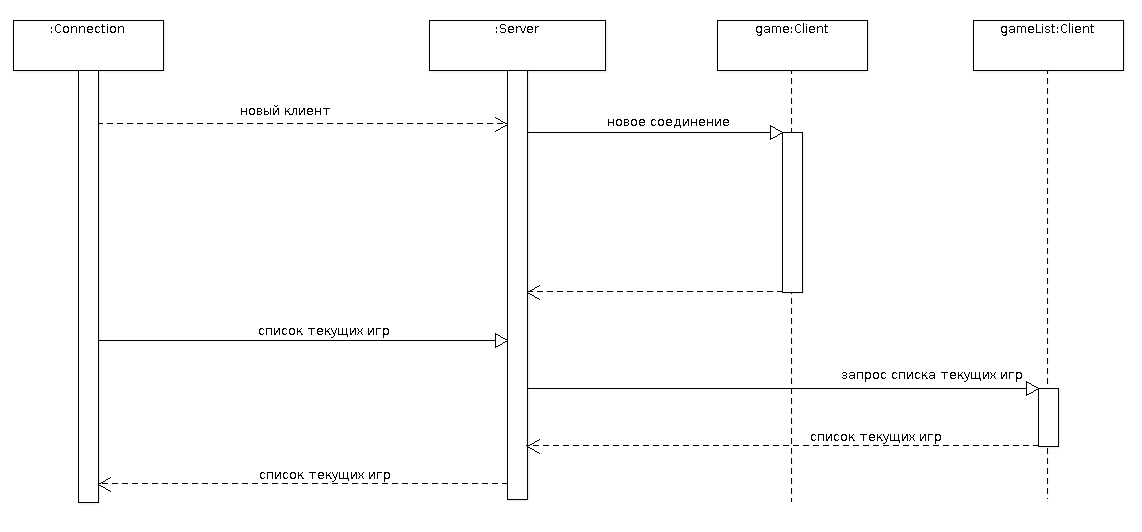
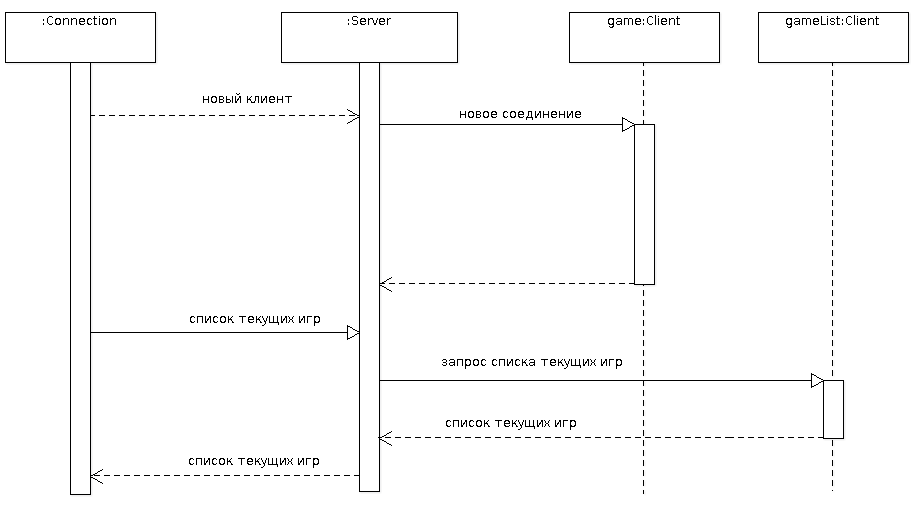
tex end

diff --git a/sem_work5/sect1.tex b/sem_work5/sect1.tex
@@ -1,15 +1,14 @@
 \section{Проектирование}
 \subsection{Общая часть}
-В этом разделе описана та чать проекта, которая характеризует общую структруру и взаимосвязи между индивидуальными частями разрабатываемого приложения.
-Эти аспекты описываются диаграммами вариантов использования, концептуальными диаграммами классов и некоторыми сценариями.
+Задачей общей части проекта является: выявление и анализ структуры системы, разделение на индивидуальные части, определение взаимосвязей между ними. В языке UML для описания начальных стадий проекта чаще всего используются диаграммы вариантов использования, концептуальные диаграммы классов и сценарии. 
 
 Диаграмма прецедентов (Use case diagram, диаграмма вариантов использования)~-- диаграмма, на которой отражены отношения, 
-существующие между экторами и прецедентами.
+существующие между актерами и прецедентами.
 Основная задача~-- представлять собой единое средство, дающее возможность заказчику, конечному пользователю и разработчику совместно
 обсуждать функциональность и поведение системы.
 
-Сущности, с которыми взаимодействует система в процессе своей работы, называются экторами, причем каждый эктор ожидает, 
-что система будет вести себя строго определенным, предсказуемым образом. В качестве экторов могут выступать человек или 
+Сущности, с которыми взаимодействует система в процессе своей работы, называются актерами или ролями, причем каждый актер ожидает, 
+что система будет вести себя строго определенным, предсказуемым образом. В качестве ролей могут выступать человек или 
 другая система, подсистема или класс, которые представляют нечто вне сущности.
 Прецедент (use-case)~-- описание отдельного аспекта поведения системы с точки зрения пользователя.
 В данном проекте диаграмма прецедентов выглядит так:
@@ -22,50 +21,34 @@
 \end{figure}
 
 На данной диаграмме [\ref{fig0}] видно, что взаимодействие игроков осуществляется через сервер игры, который
-занимается синхронизацией(т.е. чтобы игроки видели перемещения кораблей друг друга)
+занимается синхронизацией(т.~е. чтобы игроки видели перемещения кораблей друг друга)
 и проверкой соответствия их действий правилам игры. Под ролью пользователя на ней понимается 
-человек, который использует данное приложение(графический интерфрейс программы).
+человек, который использует данное приложение(графический интерфейс программы).
 
-Клиенту должны быть доступны возможности создания и завершения игры, а так же управление самим процессом. Всё это вместе объединено под единым вариантом использования, названным <<Управление Игрой>>. Контроль произведенных операций осуществляется отдельной сущностью(сервером). Третий эктор несет вспомогательнуя роль и является своеобразным посредником между пользователем и сервером. У него должны иметься интерфейсы как графический, так и для общения с серверной частью. 
+Клиенту должны быть доступны возможности создания и завершения игры, а так же управление самим процессом. Всё это вместе объединено под единым вариантом использования, названным <<Управление Игрой>>. Контроль произведенных операций осуществляется отдельной сущностью(сервером). Третий актер несет вспомогательную роль и является посредником между пользователем и сервером. У него должны иметься интерфейсы как графический, так и для общения с серверной частью. 
 
-Прецеденты по сути, являются действием или набором действий, выполнимых тем или иным эктором. Прецедент может быть описан разными способами: диаграммой последовательности, диаграммой кооперации или сценарием.
-Рассмотрим на примере прецедента <<подключение>>(с точки зрения клиента) вариант его описания с помошью сценария.
-
+Прецеденты, являются действием или набором действий, выполняемых той или иной ролью. Прецедент может быть описан разными способами: диаграммой последовательности, диаграммой кооперации или сценарием.
+Анализ требований и структуры системы показал, что целесообразно разделить проект на три составляющие, которые образуют основу концептуальной диаграммы классов. 
 \begin{itemize}
-	\item Подключение к игре:
-	\begin{itemize}
-		\item Установка соединения с сервером;
-		\item Игрок вводит имя;
-		\item Выбор противника;
-		\item Начало игры;
-  	\end{itemize} 
-	\item Альтернатива <<недоступность сервера>>(неудалось установить соединение): 
-	\begin{itemize}
-		\item сообщение об ошибке;
-		\item проверка настроек соединения;
-  	\end{itemize} 
-	\item Альтернатива <<Своя игра>>(нет начатых игр):
-	\begin{itemize}
-		\item Ввести имя игры;
-		\item Ожидание противника;
-  	\end{itemize} 
+	\item Взаимодействие клиента и сервера; 
+	\item Клиент;
+	\item Сервер;
 \end{itemize} 
 
-Концептуальной диаграммой классов называют диаграмму классов, в которой не раскрыты детальные отношения, связи, атрибуты и операции. Таким образом в этом типе диаграмм классов отражаются только основные связи между обобщёнными частями проекта. Первый взгляд на концептуальную диаграмму классов этого проекта можно увидеть на рисунке [\ref{fig1}].
-
+Концептуальной диаграммой классов называют диаграмму классов, в которой не раскрыты детальные отношения, связи, атрибуты и операции. Таким образом в этом типе диаграмм классов отражаются только основные связи между обобщёнными частями проекта. На рисунке [\ref{fig1}] представлена не развернутая диаграмма классов с концептуальной точки зрения.
 \begin{figure}[ht]
 \centering
 \includegraphics[width=17cm]{images/class.png}
-\caption{Концептуальная диаграмма классов а)}
+\caption{Концептуальная диаграмма классов (а)}
 \label{fig1}
 \end{figure}
 
-Проанализировав данную диаграмму, было принято решение её детализировать, выделив на ней группы классов и те части проекта, которые непосредственно должны реализовывать описанный интерфейс. Стоит обратить внимание, что такие классы должны быть как в клиентской, так в серверной частях [\ref{fig2}].
+Проанализировав данную диаграмму [\ref{fig1}], было принято решение её детализировать, выделив на ней группы классов и те части проекта, которые непосредственно должны реализовывать описанный интерфейс. Стоит обратить внимание, что такие классы должны быть как в клиентской, так в серверной частях [\ref{fig2}].
 
 \begin{figure}[ht]
 \centering
 \includegraphics[width=9cm]{images/class1.png}
-\caption{Концептуальная диаграмма классов б)}
+\caption{Концептуальная диаграмма классов (б)}
 \label{fig2}
 \end{figure}
 
@@ -78,5 +61,5 @@
 \label{fig}
 \end{figure}
 
-\newpage
+
 \endinput

diff --git a/sem_work5/sect2.tex b/sem_work5/sect2.tex
@@ -1,6 +1,5 @@
 \subsection{Взаимодействие клиента и сервера}
-%Взаимодействие клиента и пользователя начинается в тот момент, когда игрок нажимает на кнопку <<Создать игру>>(или <<Подключиться к игре>>). Рассмотрим сценарий варианта использования "Подключение":
-  Разработка внутреннего интерфейса программы подразумевает определение команд и функций, необходимых для взаимодействия разных частей проекта. Наилучшим образом это можно отобразить на диаграмме вариантов использования с одним эктором, который объединяет в себе и сервер, и клиента. То есть мы разворачиваем прецеденты <<Отправить сообщение>> и <<Получить сообщение>> из [\ref{fig0}].  
+  Разработка внутреннего интерфейса программы подразумевает определение команд и функций, необходимых для взаимодействия разных частей проекта. Наилучшим образом это можно отобразить на диаграмме вариантов использования с одной ролью, которая объединяет в себе и сервер, и клиента. То есть мы разворачиваем прецеденты <<Отправить сообщение>> и <<Получить сообщение>> из [\ref{fig0}].  
 
 \begin{figure}[ht]
 \centering
@@ -9,7 +8,7 @@
 \label{fig3}
 \end{figure}
 
-В данной диаграмме [\ref{fig3}] в качестве эктора представлен сервер игры. Так как интерфейс общения будет одинаков для обеих частей, то интерфейс клиента имеет точно такие же варианты использования. При анализе требований к системе было принято решение реализовывать соединение при помощи сокетов. При этом выделить в отдельный класс процесс, который будет отслеживать новые соединения([\ref{fig14}]). Для каждого нового клиента будет выделяться отдельный поток. Это показано на диаграмме [\ref{fig4}].
+В диаграмме [\ref{fig3}] в качестве актера представлен сервер игры. Так как интерфейс общения будет одинаков для обеих частей, то для клиента диаграмма прецедентов будет выглядеть аналогично. При анализе требований к системе было принято решение реализовывать соединение при помощи сокетов. При этом выделить в отдельный класс процесс, который будет отслеживать новые соединения([\ref{fig14}]). Для каждого нового клиента будет выделяться отдельный поток. Детализация этого процесса отображена на диаграмме [\ref{fig4}].
 
 \begin{figure}[ht]
 \centering
@@ -18,9 +17,9 @@
 \label{fig4}
 \end{figure}
 
-В данной части не представлена диаграмма классов, так как она одновременно описана в 2-х пакетах. К интерфейсу относятся классы Connect и Client, описание которых представлено на рисунках [\ref{fig8}] и [\ref{fig15}] соответсвенно. Дальше мы аналогично будем обращаться к диаграммам из клиентской и серверной частей, так как интерфейс тесно с ними связан.
+В части не представлена диаграмма классов, так как она одновременно описана в 2-х пакетах. К интерфейсу относятся классы Connect и Client, описание которых представлено на рисунках [\ref{fig8}] и [\ref{fig15}] соответственно. Дальше мы аналогично будем обращаться к диаграммам из клиентской и серверной частей, так как интерфейс тесно с ними связан.
 
-\begin{figure}[ht]
+\begin{figure}[htp]
 \centering
 \includegraphics[width=12cm]{images/activity.png}
 \caption{Диаграмма принятия сообщения}
@@ -29,7 +28,8 @@
 
 На диаграмме [\ref{fig5}] отражена последовательность действий класса, реализующего интерфейс, при получении сообщения от пакета клиента или сервера. В активность <<Вызов метода>> включаются все варианты поведения: передвижение корабля, подключение, создание игры и т.~д., указанные на диаграмме  [\ref{fig3}]. Следует отметить, что процесс получения сообщений непрерывен до тех пор, пока не пришла команда <<Выход>>.
 
-Помимо варианта использования <<Принять сообщение>> [\ref{fig3}], рассмотрен похожий прецедент отправки сообщения. Общий случай которого представлен  на диаграмме~[\ref{fig6}]. В ней нет явных или неявных циклов: при получении  запроса на отправку команды, она тут же уходит; именно по этой причине протокол обмена сообщениями получается асинхронным. 
+Помимо варианта использования <<Принять сообщение>> [\ref{fig3}], рассмотрен похожий прецедент отправки сообщения. Общий случай которого представлен  на диаграмме~[\ref{fig6}]. В ней нет явных или неявных циклов: при получении  запроса на отправку команды, она тут же уходит; именно по этой причине протокол обмена сообщениями получается асинхронным. В отдельную диаграмму выделен прецедент <<Список Игр>>, который будет обрабатываться отдельным соединением, и его работа представлена на рисунке [\ref{fig7}].
+ 
 \begin{figure}[ht]
 \centering
 \includegraphics[width=18cm]{images/state1.png}
@@ -37,21 +37,19 @@
 \label{fig6}
 \end{figure}
 
-В отдельную диаграмму выделен прецедент <<Список Игр>>, который будет обрабатываться отдельным соединением, и его работа представлена на рисунке [\ref{fig7}]. 
-
-\begin{figure}[ht]
+\begin{figure}[hpt]
 \centering
-\includegraphics[width=16cm]{images/par2.png}
+\includegraphics[width=18cm]{images/par2.png}
 \caption{Диаграмма запроса списка игр}
 \label{fig7}
 \end{figure}
 
 На схеме [\ref{fig7}] видно, что для этой операции создается отдельный объект класса Client, жизненный цикл которого завершается, как только он отправляет список текущих игр сервера. Такой ход сделан для того, чтобы сохранить асинхронность протокола.
 
-%Ниже приведены прототипы команд с аргументами, которые должны использоваться клиентом и сервером для общения между собой.
+%Проанализировав необходимые требования были разработаны прототипы основных команд с аргументами, которые должны использоваться клиентом и сервером для общения между собой.
 %	\begin{itemize}
-%		\item ;
-%		\item ;
+%		\item NEW имя$_$игры, имя$_$игрока--создание игры;
+%		\item JOIN ;
 %		\item ;
 %		\item ;
 %  	\end{itemize} 

diff --git a/sem_work5/sect4.tex b/sem_work5/sect4.tex
@@ -1,6 +1,6 @@
 \subsection{Cерверная часть}
 
-Основными функциями сервера в данном проекте являются контроль за деятельностью пользователей и передача действий от одного игрока другому. Проанализировав правилы игры, можно развернуть диаграмму вариантов~использования для сервера, которую в дальнейшем раскроем либо с помощью диаграмм активности, последовательностей и состояний, либо с помощью сценариев.
+Основными функциями сервера в данном проекте являются контроль за деятельностью пользователей и передача действий от одного игрока другому. Проанализировав правила игры, можно развернуть диаграмму вариантов~использования для сервера, которую в дальнейшем раскроем либо с помощью диаграмм активности, последовательностей и состояний, либо с помощью сценариев.
   
 \begin{figure}[htp]
 \centering
@@ -9,7 +9,6 @@
 \label{fig14}
 \end{figure}
 
-В диаграмме классов [\ref{fig15}] участвует два класса, играющие роль посредников передачи сообщений клиент-сервер и в данной части рассматриваться не будут(подробнее об этих классах в главе 2). 
 
 \begin{figure}[htp]
 \centering
@@ -18,7 +17,7 @@
 \label{fig15}
 \end{figure}
 
-Класс Ship здесь используется как вспомогательный класс, фактически как дополнительная структура. Класс Game выполняет те функции, которые были описаны выше, то есть проверяет корректность действий и синхронизирует действия игроков. Именно к классу Game по большей части будут относиться диаграммы, детализирующие варианты использования.
+Класс Ship на диаграмме [\ref{fig15}] используется как вспомогательный класс, фактически как дополнительная структура. Класс Game выполняет те функции, которые были описаны выше, то есть проверяет корректность действий и синхронизирует действия игроков. Именно к классу Game, в основном, будут относиться диаграммы, детализирующие варианты использования.
 
 Обратимся к прецеденту <<Установка кораблей>>. На диаграмме [\ref{fig14}] видно, что он состоит из 3-х частей. Установку и удаление распишем в виде сценариев, а перемещение представим в виде диаграммы состояний [\ref{fig16}].  
 
@@ -49,7 +48,7 @@
 \label{fig16}
 \end{figure}
 
- Следует обратить внимание, что отправка изменений должна осуществляться не только оппоненту, но и тому игроку, который совершал ход, так как все действия игроков не отображаются и не фиксируются в клиент-приложении, а осуществляются по командам сервера. Более подробно это описано на примере диаграммы смены статусов игры [\ref{fig17}], изображенной в виде диаграммы последовательностей или, более общно, в диаграмме [\ref{fig}].
+ Отправка изменений должна осуществляться не только оппоненту, но и тому игроку, который совершал ход, так как все действия игроков не отображаются и не фиксируются в клиент-приложении, а осуществляются по командам сервера. Более подробно это описано на примере диаграммы смены статусов игры [\ref{fig17}], изображенной в виде диаграммы последовательностей или в диаграмме [\ref{fig}].
 
 \begin{figure}[htp]
 \centering
@@ -58,10 +57,9 @@
 \label{fig17}
 \end{figure}
 
-В силу равноправности пользователей(т.е. создателя игры и игрока, который присоединился), диаграмму [\ref{fig17}] можно зеркально отобразить. Этого не было сделано в целях сохранения доступности и понятности схемы. Так же на ней был отмечен статус <<Ход>>, который на самом деле состоит из нескольких подстатусов, таких как: перемещение корабля(является обязательной частью, неподлежащей исключению по правилам), атака корабля противника и, как следствие, ответ противника, взрыв атомной бомбы(только один раз за игру). Последние три действия не являются обязательными для завершения хода. 
+В силу равноправности пользователей(т.~е. создателя игры и игрока, который присоединился), диаграмму [\ref{fig17}] можно зеркально отобразить. Этого не было сделано в целях сохранения доступности и понятности схемы. Так же на ней был отмечен статус <<Ход>>, который на самом деле состоит из нескольких подстатусов, таких как: перемещение корабля(является обязательной частью, не подлежащей исключению по правилам), атака корабля противника и, как следствие, ответ противника, взрыв атомной бомбы(только один раз за игру). Последние три действия не являются обязательными для завершения хода. 
 
 Остановимся подробнее на атаке кораблей, то есть рассмотрим прецедент <<Сравнение>>. Этот вариант может быть связан не только с отдельными кораблями, но и с их совокупностью, т. е. блоком.
-
  Блоком называется объединение двух или трёх кораблей, каждый из которых стоит на соседних клетках по горизонтали или вертикали. Общая схема выполнения сравнения отражена на рисунке [\ref{fig18}], а о мощности блоков и отдельных кораблей подробно написано в источнике [\ref{roganov}].
 \begin{figure}[htp]
 \centering

diff --git a/sem_work5/sect3.tex b/sem_work5/sect3.tex
@@ -1,6 +1,5 @@
-\subsection{Клиентская часть}
-Разработка клиентской части начинается с проектирования развёрнутой и полной диаграммы классов, которая отражает взаимодействие между внутренними частями, в частности графической оболочкой и классом, реализующим внутренний интерфейс. 
-Также в этой части рассмотрен непосредственно пользовательский интерфейс. То есть рассматривается диаграмма классов с точки зрения реализации, а не концептуальной позиции, как было в первой части работы.
+\subsection{Клиент}
+Проектирование пользовательской части включает в себя разработку развёрнутой диаграммы классов, которая отражает взаимодействие между внутренними частями клиента, в частности графической оболочкой и классом, реализующим внутренний интерфейс. Также необходимо рассмотреть пользовательский интерфейс. Диаграмма классов должна быть отображена с точки зрения реализации, а не концептуальной позиции, как было в первой части работы.
 
 Диаграмма классов (Class diagram)~-- статическая структурная диаграмма, описывающая структуру системы. Она демонстрирует классы системы, их атрибуты, методы и зависимости между классами.
 
@@ -12,9 +11,8 @@
 \end{figure}
 
 
-Анализ правил и условий игры показал, что, для упрощения реализации, необходимо выделить класс Ship, который будет отвечать за отрисовку кораблей на поле и действия кораблей при клике мышкой на них.
-
-Класс Game будет являться прослойкой между внутренним и графическим интерфейсами. Рассмотрим работу интерфейса(Gui) на примере создания игры~[\ref{fig9}]. В дальнейших описаниях класс Connect будет опускаться, так как является частью внутреннего взаимодействия клиента и сервера, что рассматривалось в предыдущей главе.
+Анализ правил и условий игры показал, что, для упрощения реализации, необходимо выделить класс Ship. Он должен отвечать за отображение кораблей на игровом поле, а так же за порядок действий остальных классов при нажатии на корабль.
+Класс Game будет являться прослойкой между внутренним и графическим интерфейсами. Он описывает последовательности действий графической оболочки и отдельных кораблей, которые зависят от полученной команды Сервера. Примером такого взаимодействия является создание новой игры, описание которого представлено на рисунке [\ref{fig9}].
 
 \begin{figure}[pt]
 \centering
@@ -23,12 +21,12 @@
 \label{fig9}
 \end{figure}
 
-\newpage
+
 Ещё один аспект, который был включен на диаграмме [\ref{fig0}] в вариант использования <<Управление игрой>>,~-- это присоединение к игре, созданной другим игроком. Взаимодействие классов между собой при этом прецеденте показано на схеме [\ref{fig10}].
 
 \begin{figure}[pt]
 \centering
-\includegraphics[width=18cm]{images/JG.png}
+\includegraphics[width=15cm]{images/JG.png}
 \caption{Диаграмма присоединения к игре}
 \label{fig10}
 \end{figure}
@@ -43,12 +41,11 @@
 		\item Взрыв торпеды;
   	\end{itemize} 
 Естественно не все эти варианты следует отображать на диаграммах, так как многие из них сводятся к реализации простейших функций и не требуют детального проектирования. 
-
-Рассмотрим наиболее интересные, например расстановку кораблей, части которой можно использовать не только при формировании начального игрового поля, но и при описании процесса снятия и передвижения кораблей во время боя [\ref{fig11}].
+Расстановка кораблей, части которой можно использовать не только при формировании начального игрового поля, но и при описании процесса снятия и передвижения кораблей во время боя  приведена на диаграмме [\ref{fig11}].
 
 \begin{figure}[pt]
 \centering
-\includegraphics[width=18cm]{images/CRS.png}
+\includegraphics[width=12cm]{images/CRS.png}
 \caption{Диаграмма установки корябля}
 \label{fig11}
 \end{figure}
@@ -63,5 +60,5 @@
 \end{figure}
 
 
-Следует подчеркнуть, что <<Бой>> на [\ref{fig12}] раскрыт не полностью, так как есть небольшие подсостояния, зависящие, к примеру, от очерёдности хода или совершаемого действия из списка возможных. Их можно выделять в отдельные состояния, которые будут рассмотрены в следующей части, так как относятся к правилам, контролируемым сервером. 
+Следует подчеркнуть, что состояние <<Бой>> на [\ref{fig12}] раскрыто не полностью, так как есть небольшие подсостояния, зависящие, к примеру, от очерёдности хода или совершаемого действия из списка возможных. Их можно выделять в отдельные состояния, которые будут рассмотрены в следующей части, так как относятся к правилам, контролируемым сервером. 
 \endinput

diff --git a/sem_work5/task.tex b/sem_work5/task.tex
@@ -1,5 +1,6 @@
 \section{Постановка задачи}
- В данной курсовой работе необходимо коллективно спроектировать и реализовать
- многопользовательскую игру <<Морской бой>> с использованием языка UML и системы контроля версий.
+ В курсовой работе необходимо спроектировать и реализовать
+ многопользовательское клиент-серверное приложение <<Морской бой>>. В проектирование включается разбиение задачи на индивидуальные части, которые должны будут независимо разрабатываться.  Для каждого раздела должно быть раскрыто подробное описание с представленными результатами, моделями, методами. В части реализации следует описать средства, с помощью которых будет написана программа.
+
 \endinput
 

diff --git a/sem_work5/app4.tex b/sem_work5/app4.tex
@@ -1,3 +1,3 @@
 \section{Заключение}
-	
+В проекте было разработано многопользовательское клиент-серверное приложение <<Морской бой>>. При планировании системы была выработана и проанализирована структура системы. Проект был разделен на индивидуальные части, в каждой из которых представлены детализированные описания работы частей проекта и их функциональные возможности. Итоговым продуктом разработки является сервер и пользовательское приложение, обладающее графическим интерфейсом, то есть готовый проект представляет собой полный набор ПО для проведения игры <<Морской бой>>.
 \endinput

diff --git a/sem_work5/btitle.tex b/sem_work5/btitle.tex
@@ -1,6 +1,6 @@
 % Обратная сторона титульного листа
 \section{Аннотация}
-	В данной курсовой работе рассматривается проектирование и разработка клиент-серверного приложения, реализующего
+	В курсовой работе рассматривается разработка клиент-серверного приложения, реализующего
 	многопользовательскую игру <<Морской бой>>.
 
 \setcounter{page}{2}

diff --git a/sem_work5/main.tex b/sem_work5/main.tex
@@ -15,7 +15,8 @@
 \input{sect2}
 \input{sect3}
 \input{sect4}
-%\input{app4}
+\input{realize}
+\input{app4}
 \newpage
 \input{bib}
 \end{document}
